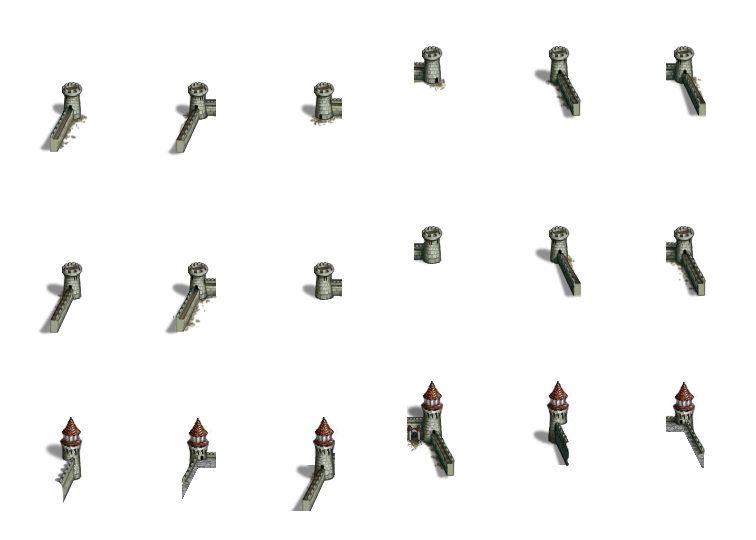
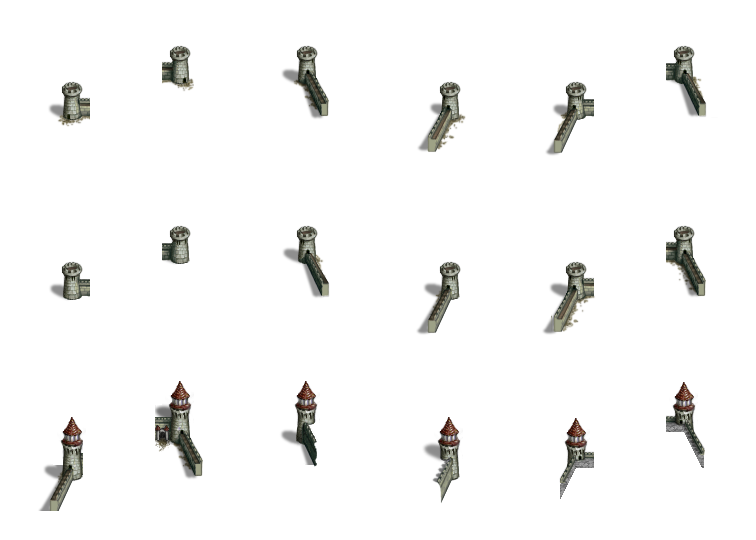
Added desert castle walls
Turns out that Wesnoth castle wall images aren't the same size from
style to style.  We need to force them all to be the same so that
SpriteSheetPacker will tile them alphabetically.

diff --git a/src/mapview.cpp b/src/mapview.cpp
@@ -17,15 +17,14 @@
 #include "SdlWindow.h"
 #include <cstdlib>
 
-// Ordering here is based on how the sprite sheet gets built.  Wesnoth's wall
-// images aren't all the same size.  SpriteSheetPacker arranges them
-// largest-to-smallest, then alphabetically.
+// Must edit Wesnoth's castle wall images so they're all the same size.
+// SpriteSheetPacker will then arrange them alphabetically.
 // Images used:
 // - castle-concave-*
 // - castle-convex-*
 // - keep-castle-ccw-bl, -br
 // - keep-castle-convex-tl, -tr, -l, -r
-enum class WallCorner {right, top_left, bottom_left, bottom_right, left, top_right};
+enum class WallCorner {bottom_left, bottom_right, left, right, top_left, top_right};
 
 enum class WallShape {concave, convex, keep};
 
@@ -60,9 +59,16 @@ MapViewApp::MapViewApp()
     rmapView_(win_, rmap_, images_)
 {
     SDL_LogSetPriority(SDL_LOG_CATEGORY_VIDEO, SDL_LOG_PRIORITY_VERBOSE);
-    auto castles = rmap_.getCastleTiles(); // TODO: rename to castle hexes?
+    auto castles = rmap_.getCastleTiles();
     SdlTexture walls = images_.make_texture("castle-walls-dirt", win_);
-    rmapView_.addEntity(images_.make_texture("cobbles-keep", win_), castles[0], ZOrder::ellipse);
+    auto floor2 = images_.make_texture("cobbles-keep", win_);
+    rmapView_.addEntity(floor2, castles[0], ZOrder::ellipse);
+    //auto floor = images_.make_texture("dirt", win_);
+    rmapView_.addEntity(floor2, castles[0].getNeighbor(HexDir::n), ZOrder::ellipse);
+    rmapView_.addEntity(floor2, castles[0].getNeighbor(HexDir::nw), ZOrder::ellipse);
+    rmapView_.addEntity(floor2, castles[0].getNeighbor(HexDir::sw), ZOrder::ellipse);
+    rmapView_.addEntity(floor2, castles[0].getNeighbor(HexDir::ne), ZOrder::ellipse);
+    rmapView_.addEntity(floor2, castles[0].getNeighbor(HexDir::se), ZOrder::ellipse);
 
     // These four walls are drawn on the N neighbor of castle center
     Hex h1 = castles[0].getNeighbor(HexDir::nw).getNeighbor(HexDir::n).getNeighbor(HexDir::n);
